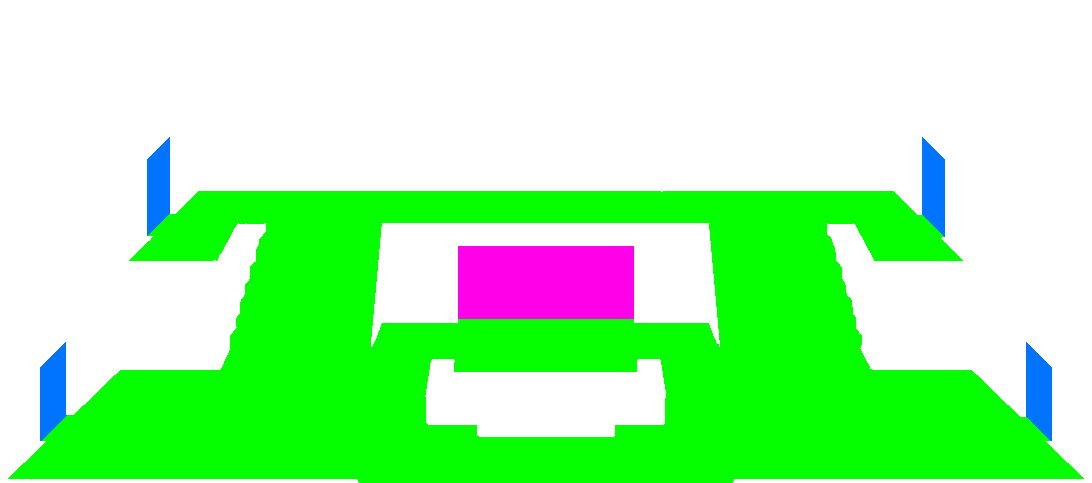
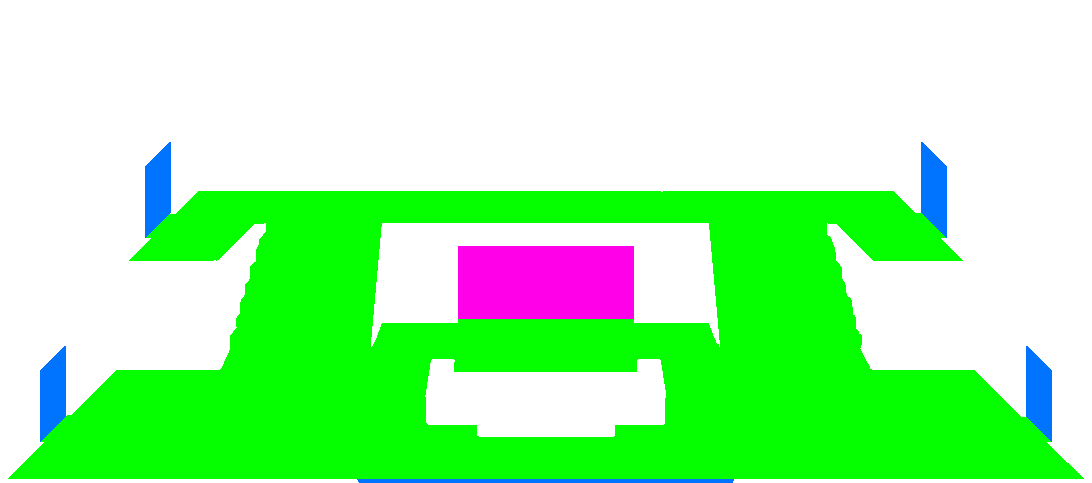
fix: Door sprites

diff --git a/src/lib/sim/door.ts b/src/lib/sim/door.ts
@@ -50,7 +50,7 @@ export function doorAppearance(side: DoorSide, bounds: Rect, config: DoorConfig)
   const panel = passagePanelFrame(side, false, 0);
   const x = Math.round(bounds.x + (bounds.w - door.w) / 2) + (config.offset?.x ?? 0);
   const y = bounds.y + bounds.h - door.h + (config.offset?.y ?? 0);
-  const gap = 4;
+  const gap = 3;
   const panelX = side === 'east' ? x - panel.w - gap : x + door.w + gap;
   const panelY = angled(side) ? y + door.h - panel.h - door.w - gap : y + door.h - panel.h;
   return {
